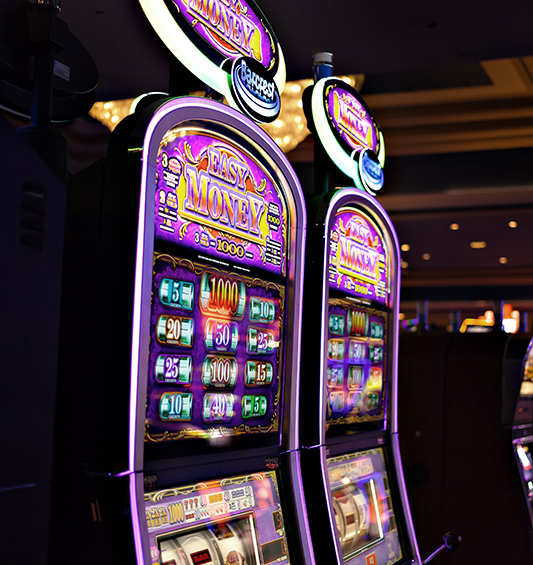
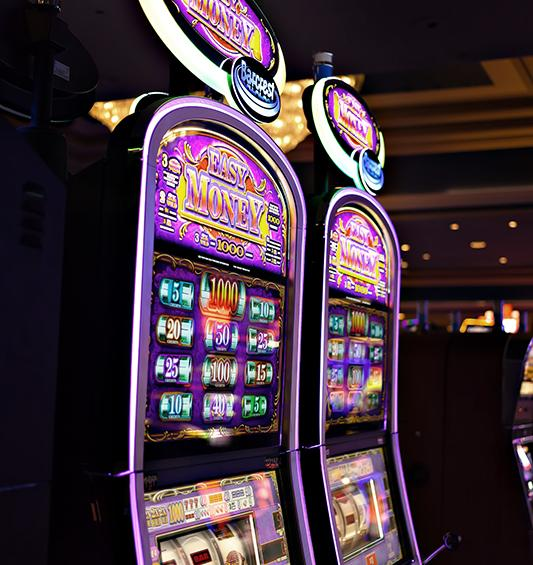
chore: оптимизировал картинки

diff --git a/components/write-us/write-us.scss b/components/write-us/write-us.scss
@@ -2,7 +2,7 @@
     color: #FFF;
     padding: 40px 16px;
     background-color: #574442;
-    background-image: url('./speech-bubble.png');
+    background-image: url('./speech-bubble.jpg');
     background-position: center;
     background-repeat: no-repeat;
     border-radius: 3px;

diff --git a/components/treatment-addiction/treatment-addiction.scss b/components/treatment-addiction/treatment-addiction.scss
@@ -49,7 +49,7 @@
 
 .treatment-addiction__dark {
     color: $c-text-on-primary;
-    background-image: url('./dark-background.png');
+    background-image: url('./dark-background.jpg');
     background-repeat: no-repeat;
     background-size: cover;
 

diff --git a/components/reviews-preview/reviews-preview.scss b/components/reviews-preview/reviews-preview.scss
@@ -1,7 +1,7 @@
 .reviews-preview {
     color: $c-text-on-primary;
     text-align: center;
-    background-image: url('./leaf.png');
+    background-image: url('./leaf.jpg');
     background-position: center;
     background-repeat: no-repeat;
 }
